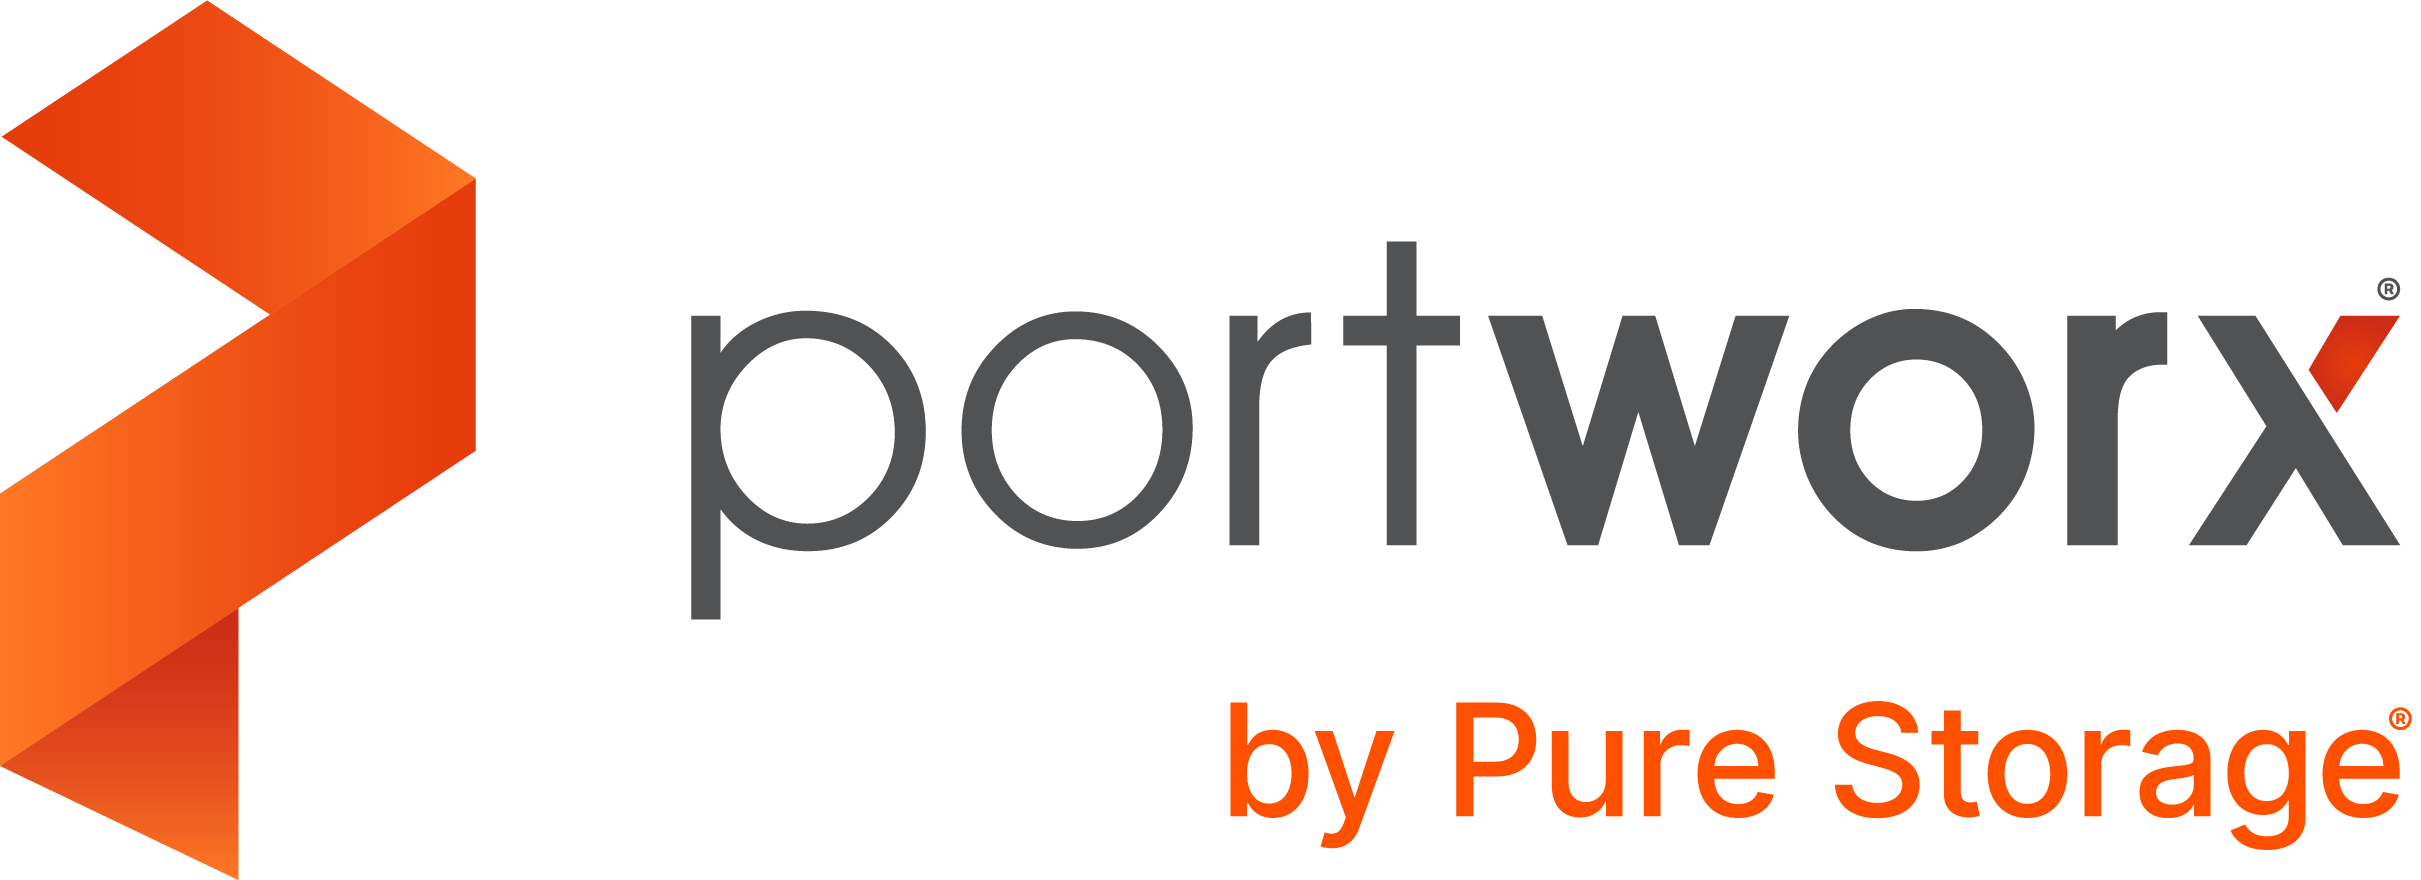
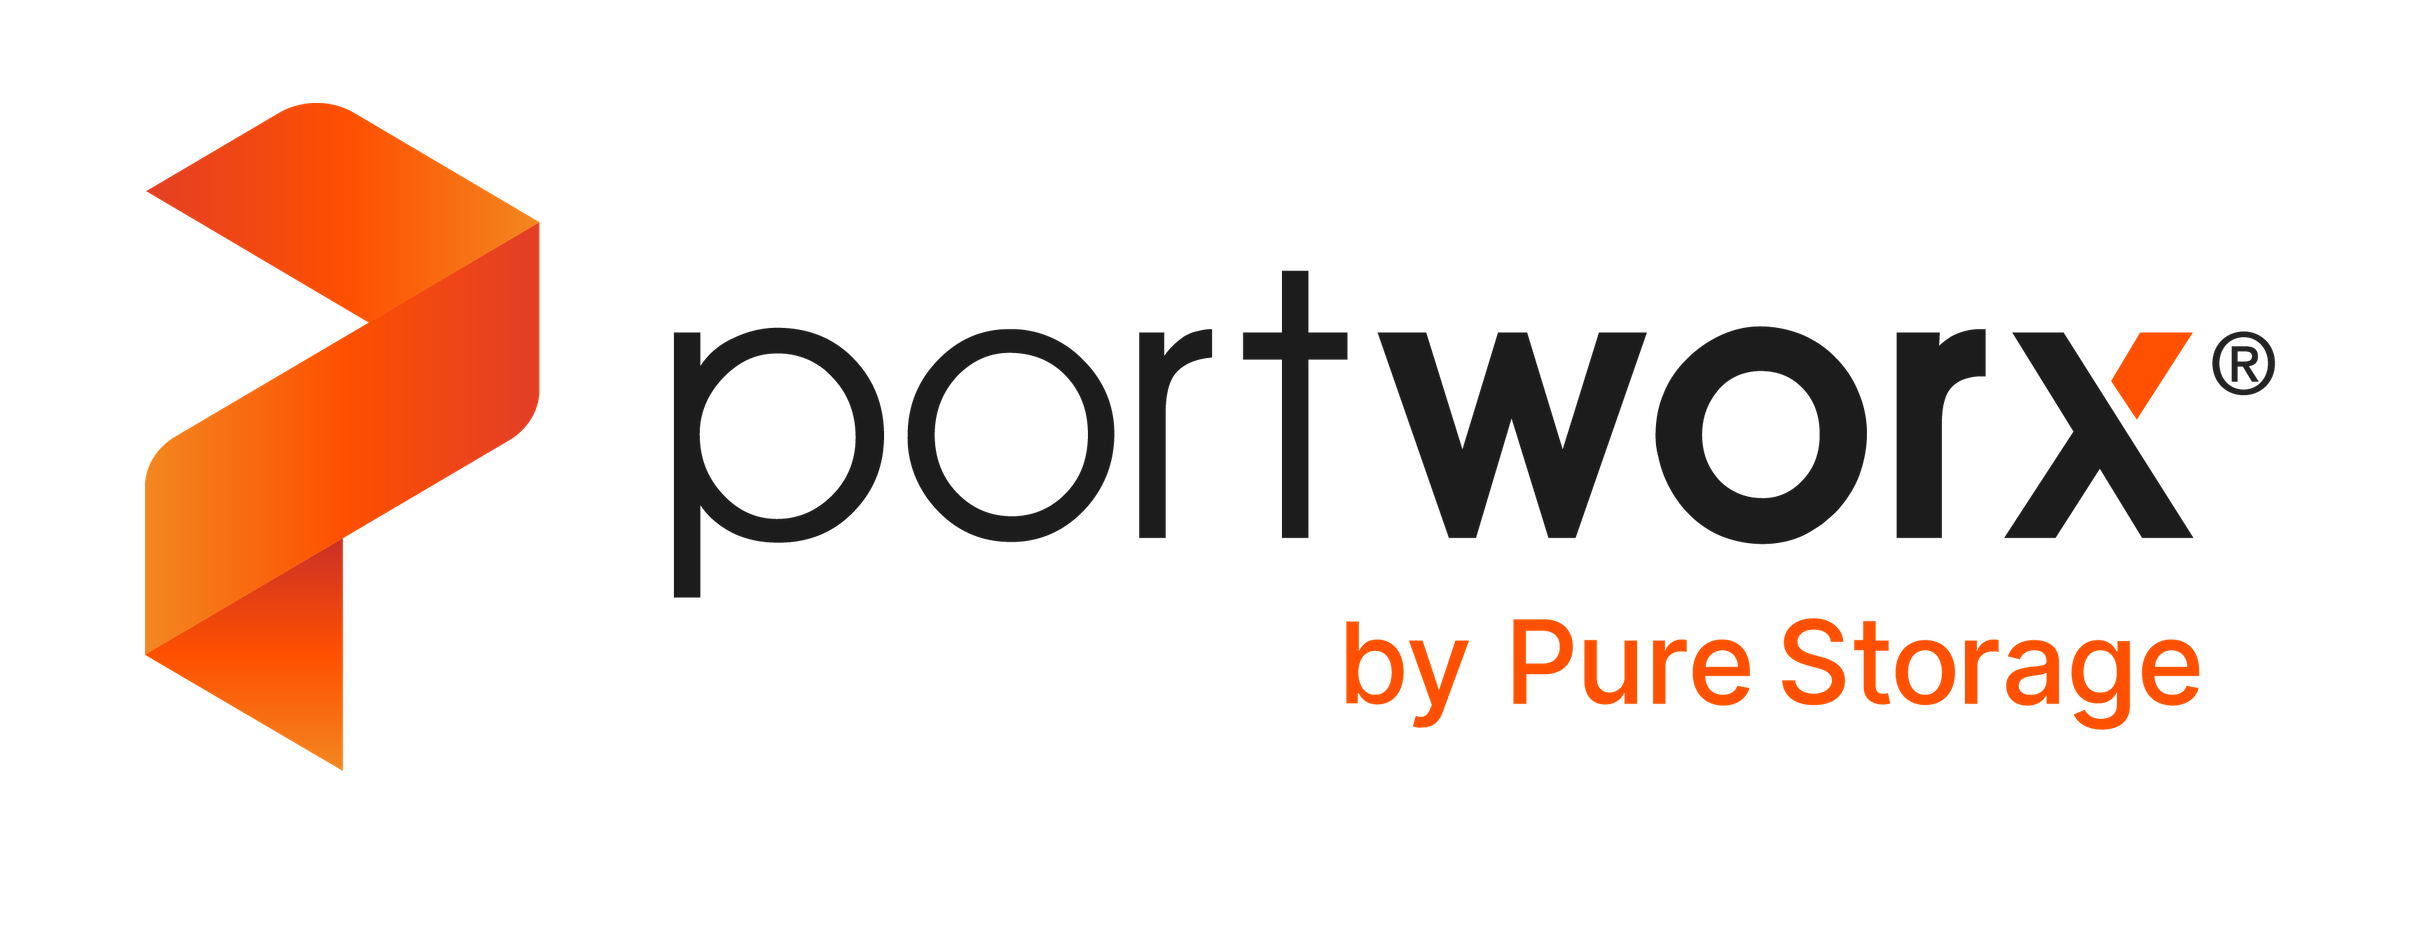
[RDU-24] Update the things (#13684)
* chore: update sponsor logo for portworx

* chore: update speakers for rdu24

* chore: update talks for rdu24

* chore: update program for rdu24

* chore: added sponsors for rdu24

diff --git a/content/events/2024-raleigh/speakers/john-willis.md b/content/events/2024-raleigh/speakers/john-willis.md
@@ -7,13 +7,4 @@ type = "speaker"
 linktitle = "john-willis"
 +++
 
-The IT management experience of John Willis spans over 40 years. He has
-worked as a consultant and evangelist for Red Hat and Docker. Willis
-previously founded Socketplane (sold to Docker) and Enstratius (sold to
-Dell). He was the VP of Training & Services at Chef before joining
-Enstratius, where he formalized the company's training, evangelism, and
-professional services functions. Gulf Breeze Software, an award-winning
-IBM business partner specializing in Tivoli technology deployment, was
-also founded by Willis. He is the co-author of the DevOps Handbook and
-Investments Unlimited. Over the past 40 years, he has written 12 books
-and built 12 startups with three successful exits.
+John Willis has worked in the IT management for over 40 years. He is researching DevOps, DevSecOps, IT risk, modern governance, and audit compliance. Previously, he was an Evangelist at Docker Inc., VP of Solutions for Socketplane (sold to Docker) and Enstratius (sold to Dell), and VP of Training & Services at Opscode, where he formalized the training, evangelism, and professional services functions at the firm. Additionally, Willis founded Gulf Breeze Software, an award-winning IBM business partner specializing in Tivoli technology deployment. As an author, Willis has written six IBM Redbooks on enterprise systems management and four books for IT Revolution, including the DevOps Handbook. He is working on his latest book, The Operational History of Generative AI.

diff --git a/content/events/2024-raleigh/speakers/cecelia-martinez.md b/content/events/2024-raleigh/speakers/cecelia-martinez.md
@@ -1,0 +1,10 @@
++++
+Title = "Cecelia Martinez"
+Twitter = "ceceliacreates"
+linkedin = "https://www.linkedin.com/in/ceceliamartinez/"
+image = "cecelia-martinez.jpg"
+type = "speaker"
+linktitle = "cecelia-martinez"
++++
+
+Cecelia Martinez is a Lead Developer Advocate at OutSystems. She is passionate about open source devtools and has helped developers improve some of the most frustrating parts of their work – including testing, debugging, mobile app deployments, and fighting with YAML. She is known for her work at companies like Ionic, Replay, and Cypress, as well as her efforts to build inclusive developer communities. She is a volunteer with Women Who Code Mobile, Chapter Head of Out in Tech Atlanta, organizer of the Atlanta JavaScript Meetup, a previous GitHub Star, and has served on the program committee for multiple tech conferences. She is an alumna of The College of Saint Rose, Lynn University, and the Georgia Institute of Technology. Before tech, Cecelia had careers in journalism and finance, and loves using both sides of her brain to connect with people and solve problems.

diff --git a/content/events/2024-raleigh/program/tanya-bragin-keynote.md b/content/events/2024-raleigh/program/tanya-bragin-keynote.md
@@ -1,0 +1,10 @@
++++
+Talk_date = ""
+Talk_start_time = ""
+Talk_end_time = ""
+Title = "The State of SQL-Based Observability"
+Type = "talk"
+Speakers = ["tanya-bragin"]
++++
+
+Many successful paradigms in engineering and computer science are the result of two distinct approaches colliding with each other, leading to broader and more powerful applications. In this talk, we’ll look at the parallel backgrounds of two established paradigms: SQL and Observability. We’ll be tracing back the history of both paradigms. How they managed to avoid each other despite SQL being the lingua franca of data manipulation, and how the industry standardization, fueled by open-source innovation, has now propelled SQL back into the game as an observability language. We’ll also highlight case studies and benchmark results to provide the necessary elements for the attendee to answer a simple question "Is SQL-based observability applicable to my use case?", highlighting the current limitations of this approach, and leaving the conclusions for the attendees to draw.

diff --git a/content/events/2024-raleigh/program/cecelia-martinez-keynote.md b/content/events/2024-raleigh/program/cecelia-martinez-keynote.md
@@ -1,0 +1,10 @@
++++
+Talk_date = ""
+Talk_start_time = ""
+Talk_end_time = ""
+Title = "Generative DevOps"
+Type = "talk"
+Speakers = ["cecelia-martinez"]
++++
+
+A look at how AI's generative capabilities are redefining automation, efficiency, and innovation in software development and operations. This talk highlights how AI can not only automate routine tasks but also foster predictive analytics, intelligent decision-making, and creative problem-solving in DevOps processes. We’ll also look at some examples of how to implement AI within various DevOps disciplines, including automated testing, monitoring and observability, and continuous deployments.

diff --git a/content/events/2024-raleigh/speakers/daniel-guinan.md b/content/events/2024-raleigh/speakers/daniel-guinan.md
@@ -1,0 +1,10 @@
++++
+Title = "Daniel Guinan"
+Twitter = ""
+linkedin = "https://www.linkedin.com/in/dguinan1/"
+image = "daniel-guinan.jpg"
+type = "speaker"
+linktitle = "daniel-guinan"
++++
+
+Daniel is a member of the System Test team responsible for testing WebSphere Application Server at IBM.  In his 3 years at IBM he has automated testing using GitOps, as well as containerized legacy applications to be run on Kubernetes. He also manages various long running test applications on production-like on-prem application server environments as well as on OpenShift clusters.  In his free time he enjoys exercising as well as working on his home lab.

diff --git a/content/events/2024-raleigh/speakers/tanya-bragin.md b/content/events/2024-raleigh/speakers/tanya-bragin.md
@@ -1,0 +1,10 @@
++++
+Title = "Tanya Bragin"
+Twitter = "tbragin"
+linkedin = "https://www.linkedin.com/in/tbragin/"
+image = "tanya-bragin.jpg"
+type = "speaker"
+linktitle = "tanya-bragin"
++++
+
+Tanya Bragin leads product at ClickHouse, a popular open source analytical database. She has over 20 years of experience in the data space, ranging from data analytics, to search, to security and network analytics. She started her career in consulting and sales engineering, and spent the last decade and a half growing product organizations from early stages to maturity at three data analytics startups, ExtraHop, Elastic, and now ClickHouse.

diff --git a/content/events/2024-raleigh/program/monica-tamboli-and-daniel-guinan-keynote.md b/content/events/2024-raleigh/program/monica-tamboli-and-daniel-guinan-keynote.md
@@ -4,7 +4,7 @@ Talk_start_time = ""
 Talk_end_time = ""
 Title = "Navigating Serverless Java Applications in the Modern DevOps Landscape"
 Type = "talk"
-Speakers = ["monica-tamboli"]
+Speakers = ["monica-tamboli","daniel-guinan"]
 +++
 
 In enterprise environments, maintaining the constant availability of applications for intended traffic is crucial. However, this often results in unnecessary costs and the consumption of precious resources by idle servers, even in the absence of traffic. Is it possible to eliminate the costs associated with idle resources without sacrificing availability?

diff --git a/content/events/2024-raleigh/speakers/virginia-diana-todea.md b/content/events/2024-raleigh/speakers/virginia-diana-todea.md
@@ -2,7 +2,7 @@
 Title = "Virginia Diana Todea"
 Twitter = ""
 linkedin = "https://www.linkedin.com/in/diana-todea-b2a79968"
-image = ""
+image = "virginia-diana-todea.jpg"
 type = "speaker"
 linktitle = "virginia-diana-todea"
 +++

diff --git a/content/events/2024-raleigh/speakers/gomathiselvi-s.md b/content/events/2024-raleigh/speakers/gomathiselvi-s.md
@@ -2,7 +2,7 @@
 Title = "Gomathiselvi S"
 Twitter = ""
 linkedin = "https://www.linkedin.com/in/gomathi-selvi-srinivasan/"
-image = ""
+image = "gomathiselvi-s.jpg"
 type = "speaker"
 linktitle = "gomathiselvi-s"
 +++

diff --git a/content/events/2024-raleigh/speakers/brian-thomason.md b/content/events/2024-raleigh/speakers/brian-thomason.md
@@ -2,7 +2,7 @@
 Title = "Brian Thomason"
 Twitter = ""
 linkedin = "https://www.linkedin.com/in/brianphilipthomason/"
-image = ""
+image = "brian-thomason.jpg"
 type = "speaker"
 linktitle = "brian-thomason"
 +++

diff --git a/content/events/2024-raleigh/speakers/chad-quinlan.md b/content/events/2024-raleigh/speakers/chad-quinlan.md
@@ -2,7 +2,7 @@
 Title = "Chad Quinlan"
 Twitter = "chadteq"
 linkedin = "https://www.linkedin.com/in/chad-quinlan/"
-image = ""
+image = "chad-quinlan.jpg"
 type = "speaker"
 linktitle = "chad-quinlan"
 +++

diff --git a/content/events/2024-raleigh/speakers/boris-kurktchiev.md b/content/events/2024-raleigh/speakers/boris-kurktchiev.md
@@ -2,7 +2,7 @@
 Title = "Boris Kurktchiev"
 Twitter = ""
 linkedin = "http://linkedin.com/in/kurktchiev"
-image = ""
+image = "boris-kurktchiev.jpg"
 type = "speaker"
 linktitle = "boris-kurktchiev"
 +++
